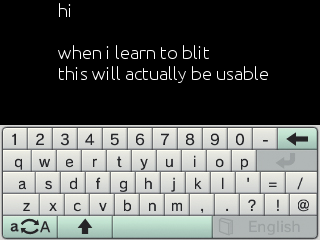
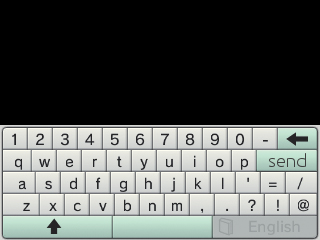
Add (invisible) shift to the keyboard

diff --git a/source/main.c b/source/main.c
@@ -42,6 +42,11 @@ char* KBD_CHARS[] = {"1234567890-\b\b",
                    "qwertyuiop\n\n\n",
                    "asdfghjkl'=//",
                    "zxcvbnm,.?!@"};
+char* KBD_SHIFT[] = {"1234567890_\b\b",
+                   "QWERTYUIOP\n\n\n",
+                   "ASDFGHJKL\"*\\\\",
+                   "ZXCVBNM<>:;#"};
+
 
 
 u32 key_down;
@@ -76,6 +81,7 @@ int kbd_pos = 0;
 bool kbd_done = false;
 char kbd_input[256] = {};
 char kbd_query[256] = {};
+bool kbd_shift = false;
 
 void kbd_setup(char* query) {
     consoleSelect(&window_input);
@@ -84,6 +90,7 @@ void kbd_setup(char* query) {
     kbd_pos = 0;
     memset(kbd_input, 0, sizeof(kbd_input));
     strcpy(kbd_query, query);
+    kbd_shift = false;
 }
 
 void do_kbd() {
@@ -97,9 +104,17 @@ void do_kbd() {
         if (last_touch.py >= KBD_OFF_TOP) {
             int row = (last_touch.py - KBD_OFF_TOP) / KEY_HEIGHT;
             int col = (last_touch.px - KBD_OFF_LEFT - KBD_FIRST_EXTRA[row]) / KEY_WIDTH;
-            if (row == 4) key = ' ';
+            if (row == 4 && col >= 4) {
+                key = ' ';
+            } else if (row == 4) {
+                kbd_shift = true;
+            }
             else {
-                key = KBD_CHARS[row][col];
+                if (kbd_shift)
+                    key = KBD_SHIFT[row][col];
+                else
+                    key = KBD_CHARS[row][col];
+                kbd_shift = false;
             }
         }
         if (key != '\0') {
